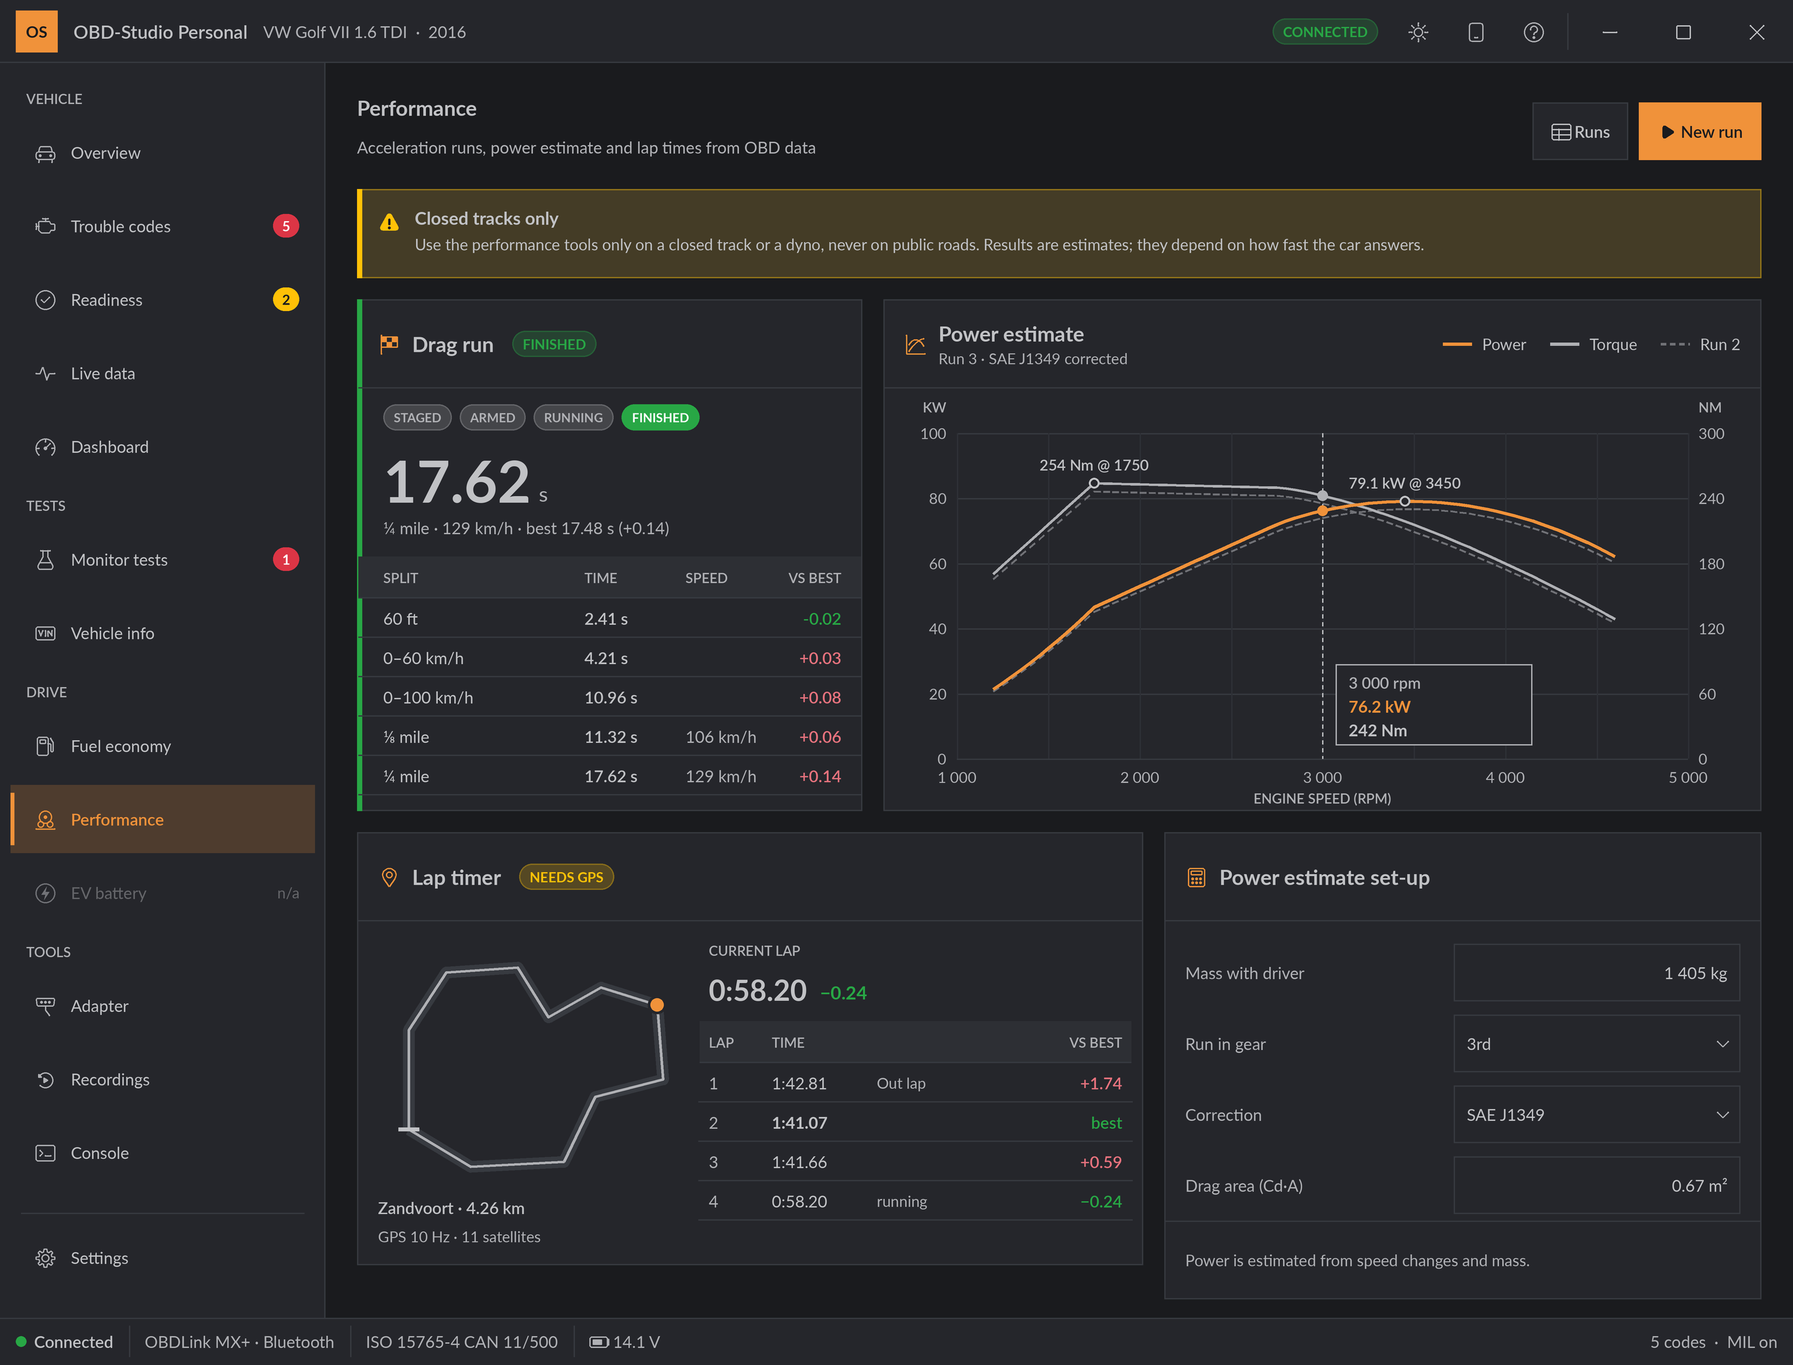
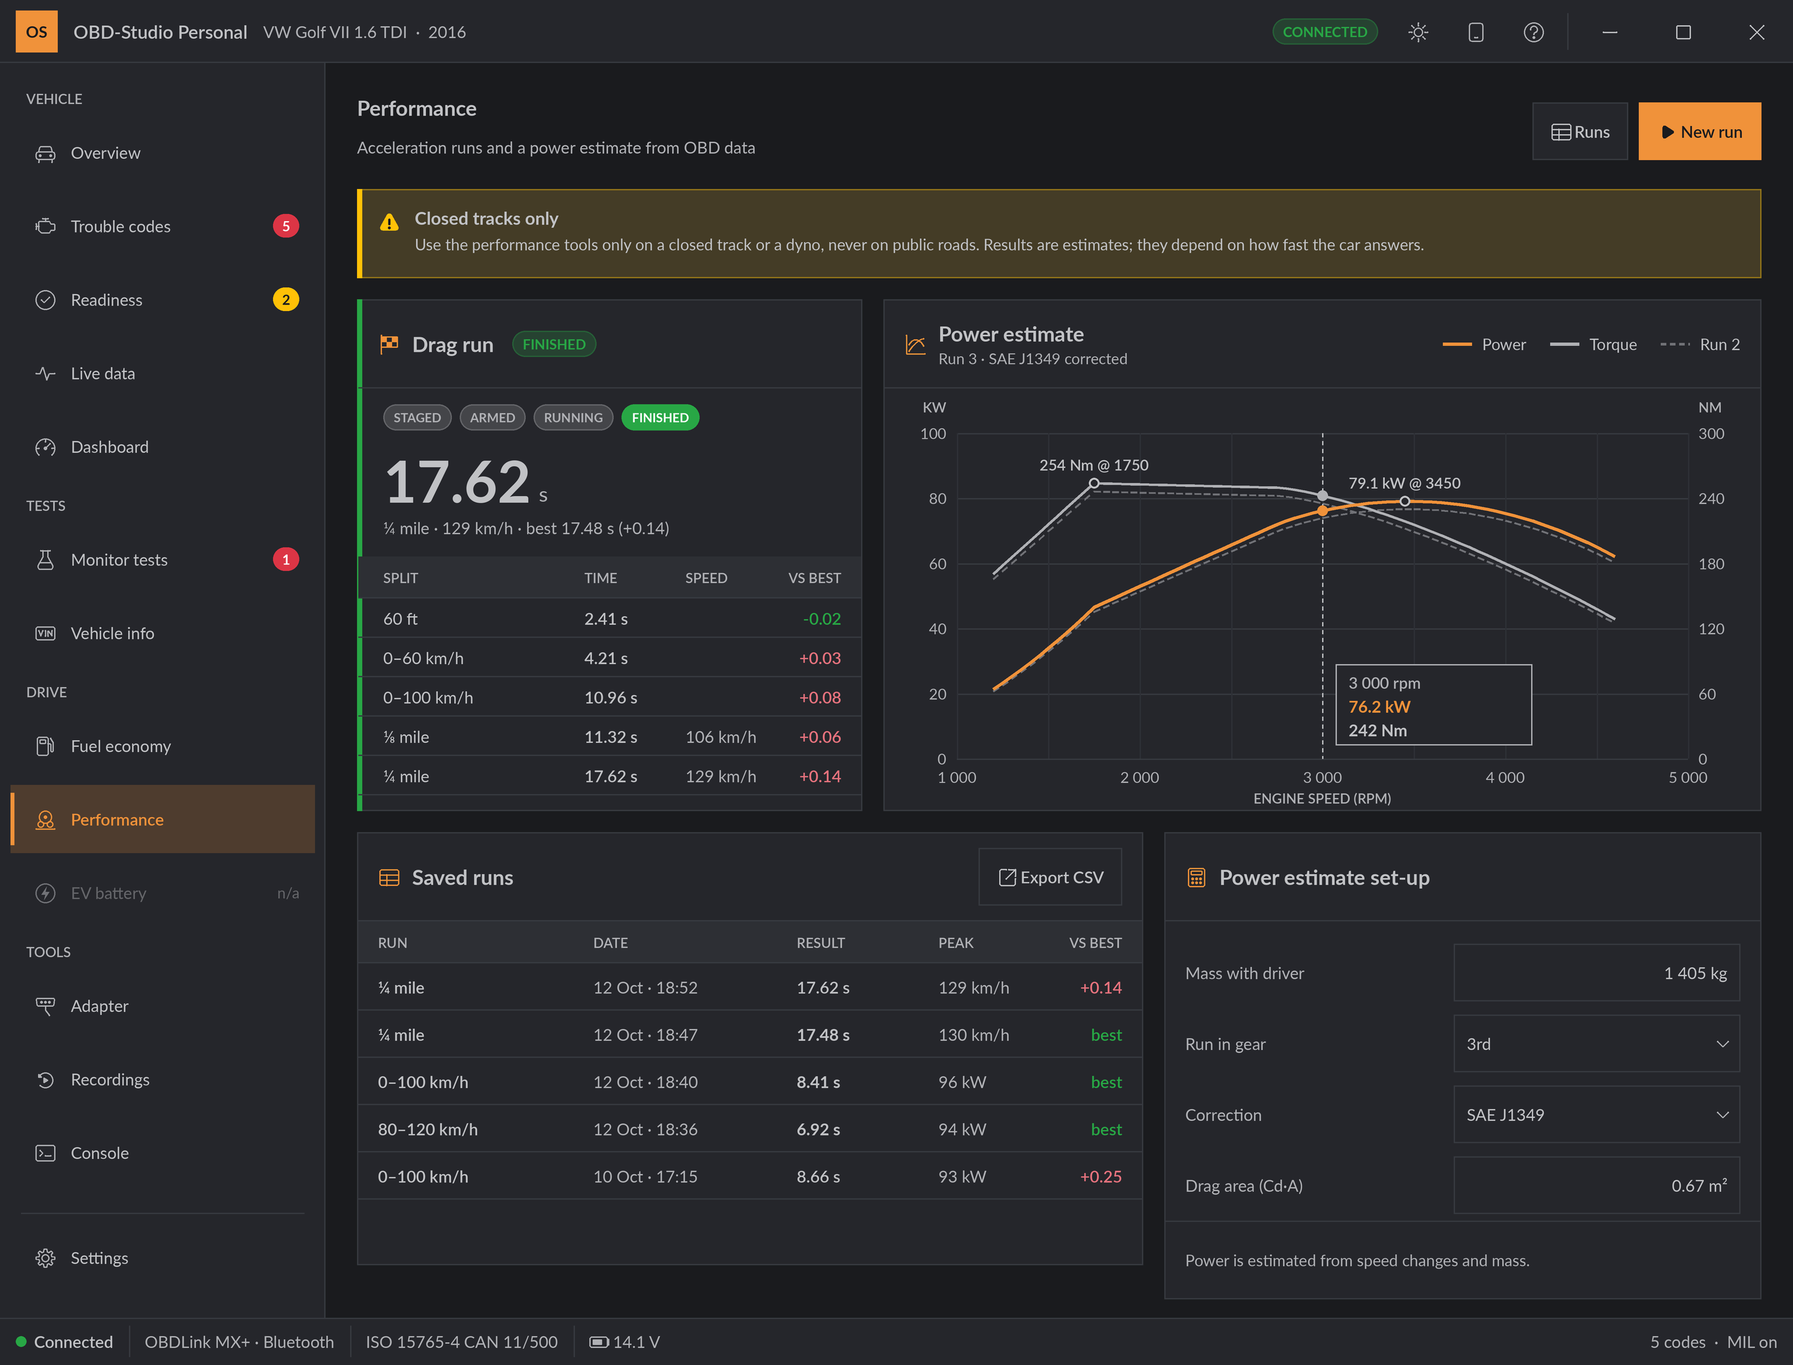
Personal: apply decisions (no lap timer, local-only privacy, decisions resolved)

diff --git a/tools/ui_mockups_personal.py b/tools/ui_mockups_personal.py
@@ -481,8 +481,8 @@ LICENCE_TEXT = [
      'Do not operate the software while driving. Performance tools are for '
      'closed tracks only. Clearing trouble codes does not repair the car.'),
     ('4. Privacy',
-     'OBD-Studio works offline. The online VIN lookup (NHTSA vPIC) and the '
-     'update check are optional; switch them off in Settings › Privacy.'),
+     'OBD-Studio works offline and sends nothing over the internet. Your '
+     'vehicles, recordings and crash logs stay on this PC.'),
     ('5. No warranty',
      'The software is provided as is, without warranty of any kind.'),
 ]
@@ -1726,10 +1726,10 @@ VIN_OFFLINE = [('Manufacturer', 'Volkswagen AG'),
                ('Serial number', '123456'),
                ('Check digit', 'Not used in Europe')]
 
-VIN_ONLINE = [('Make', 'VOLKSWAGEN', 'ok'),
-              ('Model', 'Not listed', 'off'),
-              ('Engine', 'Not listed', 'off'),
-              ('Body class', 'Not listed', 'off')]
+VIN_EQUIPMENT = [('Engine code', 'CXXB · 1.6 TDI 81 kW'),
+                 ('Emission standard', 'Euro 6'),
+                 ('Fuel', 'Diesel'),
+                 ('Body', 'Hatchback, 5 doors')]
 
 
 def ecu_card(c, x, y, w):
@@ -1760,7 +1760,7 @@ def vin_card(c, x, y, w):
     p, dn = c.p, c.dn
     rh = 28
     h = (dn['head'] + 76 + dn['colhead'] + 8 + len(VIN_OFFLINE) * rh + 8 +
-         dn['colhead'] + dn['row'] + len(VIN_ONLINE) * rh + 8 + 44)
+         dn['colhead'] + 8 + len(VIN_EQUIPMENT) * rh + 8 + 44)
     card(c, x, y, w, h)
     ry = card_head(c, x, y, w, 'VIN decoder', 'vin')
     vx = x + 16
@@ -1775,27 +1775,20 @@ def vin_card(c, x, y, w):
         c.caps(vx + max(pw, cw) / 2, vy + 28, cap, anchor='mm')
         vx += max(pw, cw) + 10
     ry += 76
-    ry = caps_line(c, x, ry, w, 'Offline', 'WMI · plants · vPIC model rules')
+    ry = caps_line(c, x, ry, w, 'From the VIN', 'WMI · plants · model rules')
     ry += 8
     for k, v in VIN_OFFLINE:
         kv_row(c, x + 16, ry + rh / 2, w - 32, k, v,
                colr=p.GaugeLabel if k == 'Check digit' else None)
         ry += rh
     ry += 8
-    ry = caps_line(c, x, ry, w, 'Online', 'optional')
-    mid = ry + dn['row'] / 2
-    switch(c, x + 16, mid, True, 'Look up at NHTSA vPIC')
-    chip(c, x + w - 16 - chip_w(c, 'PARTLY LISTED'), mid - 10,
-         'PARTLY LISTED', p.Warning)
-    ry += dn['row']
-    for k, v, st in VIN_ONLINE:
-        kv_row(c, x + 16, ry + rh / 2, w - 32, k, v,
-               colr=p.Subtle if st == 'off' else None,
-               weight='regular' if st == 'off' else 'semibold')
+    ry = caps_line(c, x, ry, w, 'From the car', 'mode 09 · engine data')
+    ry += 8
+    for k, v in VIN_EQUIPMENT:
+        kv_row(c, x + 16, ry + rh / 2, w - 32, k, v)
         ry += rh
-    note(c, x + 16, ry + 22, w - 32, 'Only the VIN is sent. vPIC lists cars '
-         'sold in the USA; most European models are only partly listed.',
-         icon='privacy')
+    note(c, x + 16, ry + 22, w - 32, 'Decoded on this PC from the built-in '
+         'catalogues. The VIN is never sent anywhere.', icon='privacy')
     return y + h
 
 
@@ -1917,70 +1910,46 @@ def draw_fuel(c):
 
 
 # --------------------------------------------------------------------------
-# Performance: acceleration runs, dyno estimate, GPS lap timer
+# Performance: acceleration runs, dyno estimate, saved runs
 # --------------------------------------------------------------------------
 
-LAPS = [('1', '1:42.81', '+1.74', 'Out lap'),
-        ('2', '1:41.07', 'best', ''),
-        ('3', '1:41.66', '+0.59', ''),
-        ('4', '0:58.20', '−0.24', 'running')]
+SAVED_RUNS = [('¼ mile', '12 Oct · 18:52', '17.62 s', '129 km/h', '+0.14'),
+              ('¼ mile', '12 Oct · 18:47', '17.48 s', '130 km/h', 'best'),
+              ('0–100 km/h', '12 Oct · 18:40', '8.41 s', '96 kW', 'best'),
+              ('80–120 km/h', '12 Oct · 18:36', '6.92 s', '94 kW', 'best'),
+              ('0–100 km/h', '10 Oct · 17:15', '8.66 s', '93 kW', '+0.25')]
 
 
-def track(c, x, y, w, h):
-    """Simple circuit outline with the car position."""
-    p = c.p
-    pts = [(0.10, 0.75), (0.10, 0.35), (0.22, 0.12), (0.45, 0.10),
-           (0.55, 0.30), (0.72, 0.18), (0.90, 0.25), (0.92, 0.55),
-           (0.70, 0.62), (0.60, 0.88), (0.30, 0.90), (0.10, 0.75)]
-    xy = [(x + a * w, y + b * h) for a, b in pts]
-    c.line(xy, p.NeutralLight, 9)
-    c.line(xy, p.NeutralDark, 2)
-    sx, sy = xy[0]
-    c.rect(sx - 8, sy - 1.5, 16, 3, fill=p.ForegroundText)
-    cx, cy = xy[6]
-    c.ellipse(cx - 7, cy - 7, 14, 14, fill=p.Accent, outline=p.GaugeFace,
-              width=2)
-
-
-def gps_lap_card(c, x, y, w, h):
+def saved_runs_card(c, x, y, w, h):
+    """Saved acceleration runs (TOBDDragRun results) with CSV export."""
     p, dn = c.p, c.dn
     card(c, x, y, w, h)
-    ry = card_head(c, x, y, w, 'Lap timer', 'location',
-                   chips=[('NEEDS GPS', p.Warning)])
-    tw = round(w * 0.42)
-    track(c, x + 16, ry + 16, tw - 16, h - (ry - y) - 72)
-    c.text(x + 16, y + h - 44, 'Zandvoort · 4.26 km', 12.5,
-           p.ForegroundText, 'semibold')
-    c.text(x + 16, y + h - 22, 'GPS 10 Hz · 11 satellites', 11.5,
-           p.GaugeLabel)
-    lx = x + tw + 16
-    lw = w - tw - 32
-    c.caps(lx, ry + 22, 'Current lap')
-    vw = c.text(lx, ry + 52, '0:58.20', 22, p.ForegroundText, 'bold')
-    c.text(lx + vw + 10, ry + 54, '−0.24', 14, p.Success, 'bold')
-    ty = colhead(c, lx - 8, ry + 76, lw + 16, [(lx, 'Lap'),
-                                               (lx + 48, 'Time'),
-                                               (lx + lw, 'vs best', 'rm')])
-    row = min(30, dn['row'] - 12)
-    for n, t, d, sub in LAPS:
+    ry = card_head(c, x, y, w, 'Saved runs', 'table',
+                   buttons=[('Export CSV', 'secondary', 'export')])
+    cols = [x + 16, x + round(w * 0.30), x + round(w * 0.56),
+            x + round(w * 0.74), x + w - 16]
+    ty = colhead(c, x, ry, w, [(cols[0], 'Run'), (cols[1], 'Date'),
+                               (cols[2], 'Result'), (cols[3], 'Peak'),
+                               (cols[4], 'vs best', 'rm')])
+    row = min(36, dn['row'] - 6)
+    for name, when, res, peak, d in SAVED_RUNS:
         mid = ty + row / 2
-        c.text(lx, mid, n, 12.5, p.GaugeLabel)
-        c.text(lx + 48, mid, t, 12.5, p.ForegroundText,
-               'bold' if d == 'best' else 'regular')
-        if sub:
-            c.text(lx + 128, mid, sub, 11.5, p.GaugeLabel)
-        colr = p.Success if d in ('best',) or d.startswith('−') else \
-            danger_ink(p)
-        c.text(lx + lw, mid, d, 12.5, colr, 'semibold', anchor='rm')
+        c.text(cols[0], mid, name, 12.5, p.ForegroundText, 'semibold')
+        c.text(cols[1], mid, when, 12.5, p.GaugeLabel)
+        c.text(cols[2], mid, res, 12.5, p.ForegroundText,
+               'bold' if d == 'best' else 'semibold')
+        c.text(cols[3], mid, peak, 12.5, p.GaugeLabel)
+        colr = p.Success if d == 'best' else danger_ink(p)
+        c.text(cols[4], mid, d, 12.5, colr, 'semibold', anchor='rm')
         ty += row
-        c.hline(lx - 8, ty - 1, lw + 16, p.NeutralLight)
+        c.hline(x + 1, ty - 1, w - 2, p.NeutralLight)
     return y + h
 
 
 def performance_page(c, x, y, w):
     dn = c.dn
-    y, _ = page_head(c, x, y, w, 'Performance', 'Acceleration runs, power '
-                     'estimate and lap times from OBD data',
+    y, _ = page_head(c, x, y, w, 'Performance', 'Acceleration runs and a '
+                     'power estimate from OBD data',
                      [('Runs', 'secondary', 'table'),
                       ('New run', 'primary', 'play')])
     y = wbanner(c, x, y, w, 'warning', 'Closed tracks only',
@@ -1994,7 +1963,7 @@ def performance_page(c, x, y, w):
     y += h + 16
     gw = round(w * 0.56)
     gh = 300 if c.density == 'desktop' else 330
-    gps_lap_card(c, x, y, gw, gh)
+    saved_runs_card(c, x, y, gw, gh)
     fx = x + gw + 16
     fw = w - gw - 16
     P.form_card(c, fx, y, fw, 'Power estimate set-up', 'calculator', [
@@ -2398,17 +2367,17 @@ def settings_page(c, x, y, w):
         ('Next inspection', '14 Mar 2027', 'edit')],
         note='Readiness is checked against these rules.')
     ry2 += 16
-    sw = [('Look up VINs online (NHTSA vPIC)', True),
-          ('Check for updates', True),
-          ('Send anonymous crash reports', False)]
+    sw = [('Keep crash logs on this PC', True),
+          ('Keep a connection log', False),
+          ('Remember recent vehicles', True)]
     ph = dn['head'] + dn['row'] * len(sw) + dn['foot']
     card(c, rx, ry2, cw, ph)
     yy = card_head(c, rx, ry2, cw, 'Privacy', 'privacy')
     for label, on in sw:
         switch(c, rx + 16, yy + dn['row'] / 2, on, label)
         yy += dn['row']
-    footer(c, rx, ry2, cw, ph, 'No account, no tracking. Your data stays '
-           'on this PC.')
+    footer(c, rx, ry2, cw, ph, 'Works offline. No account, no tracking; '
+           'nothing leaves this PC.')
     ry2 += ph + 16
     kv = [('Version', '1.0.0'),
           ('Licence', 'Free for personal use · v1.0'),
@@ -2422,7 +2391,7 @@ def settings_page(c, x, y, w):
         yy += 28
     bx = rx + 16
     by = ry2 + ah2 - 16 - dn['button']
-    for t in ('View licence', 'Third-party notices', 'Check for updates'):
+    for t in ('View licence', 'Third-party notices', 'Get updates'):
         bx += button(c, bx, by, t, 'secondary') + 8
     return max(ly, ry2 + ah2)
 

diff --git a/applications/obd-studio-personal/README.md b/applications/obd-studio-personal/README.md
@@ -32,7 +32,7 @@ next (see [Roadmap](#roadmap)). There is no application code yet.
 - [Europe](#europe)
 - [Licence acceptance](#licence-acceptance)
 - [Roadmap](#roadmap)
-- [Open decisions](#open-decisions)
+- [Decisions](#decisions)
 
 ## Feature parity with OBD Auto Doctor
 
@@ -97,12 +97,11 @@ Features that OBD Auto Doctor does not offer, or offers in a simpler form:
 | Inspection check: "would this car pass the APK, keuring, HU/AU, CT, MOT or NCT readiness check?" | Readiness, Overview | Inspection-rules catalogue (new) |
 | Drive-cycle advisor: how to drive to complete the unfinished monitors | Readiness | `TOBDDriveCycleAdvisor`, `drive-cycle-generic.json` |
 | Offline VIN decoder: maker, plant, model year and vPIC model rules without internet | Vehicle info | `TOBDVINCatalog`, `TOBDVINInspector`, `catalogs/vin` |
-| Optional online VIN lookup (NHTSA vPIC) | Vehicle info | Application work (HTTPS request) |
 | Dashboard editor: choose gauges, values and layout | Dashboard (edit) | `TOBDDashboard`, `TOBDPidPicker` |
 | Recording and replay of a session, including the raw adapter log | Recordings | `TOBDRecorder`, `TOBDReplayer`, `TOBDReplayBar`, `TOBDLogViewer` |
 | Trip fuel cost and CO₂ | Fuel economy | `TOBDFuelEconomyMeter`, `TOBDEmissionsEstimator` |
 | Performance: drag runs with splits (for example ¼ mile), estimated power curve | Performance | `TOBDDragRun`, `TOBDDynoCalculator`, `TOBDPowerCurve` |
-| Lap timer | Performance | `TOBDLapTimer` (needs GPS, see [Open decisions](#open-decisions)) |
+| Saved runs with CSV export | Performance | `TOBDDragRun`, CSV logger (new) |
 | UDS failure-type bytes on J1979-2 cars (for example P0101-1C) | Trouble codes (UDS view) | `TOBDWWHOBD` |
 | EV battery health: state of health, cell voltages, temperatures | EV battery | `TOBDEVBattery`, `TOBDCellMatrix`, `catalogs/ev-battery` |
 | Light and dark themes, desktop and tablet density | All | `TOBDTheme` |
@@ -112,6 +111,10 @@ Features that OBD Auto Doctor does not offer, or offers in a simpler form:
 
 - **Reports.** Later, through the ERDesigns cloud reporting service.
 - **G-meter.** Dropped for now; `TOBDGMeter` exists, so it can come back.
+- **Lap timer.** Needs a GPS source; left out for now.
+- **Online functions.** Personal works offline: no online VIN lookup, no
+  automatic update check and no crash reports sent anywhere.
+  **Get updates** in Settings opens the download page in the browser.
 - **Professional features.** UDS and KWP coding, flashing, key adaptation,
   radio codes, actuator tests other than Mode 08, J1939 trucks and
   workshop use belong to OBD-Studio Professional.
@@ -136,11 +139,11 @@ each in light and dark, desktop and tablet.
 | Monitor tests | `personal-tests` | Mode 06 results, Mode 05 and Mode 08 tabs, in-use performance |
 | Vehicle info | `personal-vehicle-info` | VIN decoder, ECU list, calibration IDs and CVNs |
 | Fuel economy | `personal-fuel` | Trip consumption, cost and CO₂ |
-| Performance | `personal-performance` | Acceleration runs, power curve and lap timer |
+| Performance | `personal-performance` | Acceleration runs, power curve and saved runs |
 | EV battery | `personal-ev-battery` | State of health and cell voltages |
 | Recordings | `personal-recordings` | Saved sessions, replay and CSV export |
 | Console | `personal-console` | Adapter commands and responses |
-| Settings | `personal-settings` | Language, theme, density, units, inspection country, privacy, licence |
+| Settings | `personal-settings` | Language, theme, density, units, inspection country, local logs, licence |
 
 Render them with `cd tools && python3 ui_mockups.py --only personal-NAME`.
 
@@ -177,9 +180,9 @@ Part of the catalogue data comes from open sources with their own licences
 | J1939-Framework, decoda | MIT | J1939 (not used by Personal) |
 | vininfo | BSD-3-Clause | WMIs |
 
-The application itself is proprietary. Shipping GPL and CC BY-SA data with
-it needs a decision ([Open decisions](#open-decisions)), ideally with legal
-advice. Whatever the decision, the application will:
+The application itself is proprietary. All of this data is included for
+now; how the GPL and CC BY-SA data ships is settled before the release
+(see [Decisions](#decisions)). In any case the application will:
 
 - ship the catalogues as separate data files, not compiled into the
   executable;
@@ -263,14 +266,16 @@ J1979-2 and EV.
 
 **Step 5 – Release.**
 
-## Open decisions
+## Decisions
 
-| # | Question | Assumed for now |
+Agreed on 12 October 2026:
+
+| # | Question | Decision |
 |---|---|---|
-| 1 | How to handle the GPL-2.0+ and CC BY-SA 4.0 catalogue data: ship it as separate files with notices, replace it with our own texts, or ask the authors for permission | Separate files with notices; get legal advice |
-| 2 | How many manufacturer code texts are needed before the release | Main European brands first |
-| 3 | GPS for the lap timer: GPS receiver (NMEA over COM), Windows location, or leave the lap timer out | Mocked with a "Needs GPS" chip |
-| 4 | Installer technology | Inno Setup |
-| 5 | Ship the tablet density in the first release | Mocked; decide after building the desktop layout |
-| 6 | Online VIN lookup: NHTSA vPIC is US-centred; keep it as an option next to the offline decoder | Optional, with a switch under Settings › Privacy |
-| 7 | Crash reports and update checks: which service receives them, and the privacy notice that describes them | Crash reports off by default |
+| 1 | GPL-2.0+ and CC BY-SA 4.0 catalogue data | Include all of it now; how it ships is settled before the release |
+| 2 | How many manufacturer code texts | As many as possible, from open sources with the source on every entry |
+| 3 | Lap timer and GPS | Left out for now |
+| 4 | Installer | Inno Setup |
+| 5 | Tablet density | Both densities in the first release |
+| 6 | Online VIN lookup | Local only: the offline decoder, no online lookup |
+| 7 | Crash reports and update checks | Local only: crash logs stay on the PC, no automatic update check; **Get updates** opens the download page in the browser |

diff --git a/docs/mockups/README.md b/docs/mockups/README.md
@@ -673,7 +673,8 @@ a `-tablet` variant.
 | Sample cars | A VW Golf VII 1.6 TDI (2016, with EGR and DPF codes) and, on the EV page, a Hyundai Kona Electric. Values agree between pages. |
 | Unsupported functions | Shown greyed out with the reason, not hidden (for example Mode 05 on a CAN car). |
 | Inspection rules | Labelled "Example rules" until each country's rules are checked against the official source. |
-| Lap timer | Shown with a *Needs GPS* chip; the GPS source is an open decision. |
+| Lap timer | Left out: the performance page shows drag runs, the power estimate and saved runs. |
+| Privacy | Local only: no online VIN lookup, no automatic update check, crash logs stay on the PC. |
 | Licence | Accepted in the installer and again in the first-start wizard. |
 
 ### Screens
@@ -691,13 +692,13 @@ a `-tablet` variant.
 | `personal-dashboard` | Dial and bar gauges with peaks, and value tiles. |
 | `personal-dashboard-edit` | Dashboard editor: widget list, drop target and the settings of the selected widget. |
 | `personal-tests` | Mode 06 results by monitor (catalogue MIDs) with limits, Mode 05 and Mode 08 tabs (greyed when the car does not support them) and in-use performance tracking. |
-| `personal-vehicle-info` | VIN decoded offline (WMI, plant, vPIC model rules) with an optional online lookup; control units with calibration IDs, CVNs and the type-approval number. |
+| `personal-vehicle-info` | VIN decoded on the PC (WMI, plant, model rules) plus engine data the car reports; control units with calibration IDs, CVNs and the type-approval number. |
 | `personal-fuel` | Live and trip consumption, cost and CO₂, how it is measured, and a trip list. |
-| `personal-performance` | Drag run with splits, power estimate and a GPS lap timer (flagged: needs GPS). |
+| `personal-performance` | Drag run with splits, power estimate, saved runs with CSV export and the power-estimate set-up. |
 | `personal-ev-battery` | State of health, pack values and cell voltages per module (Hyundai Kona Electric, 98 cells). |
 | `personal-recordings` | Saved sessions with replay, the adapter log and CSV export. |
 | `personal-console` | Adapter console with quick commands and the adapter log settings. |
-| `personal-settings` | Language, appearance, units, inspection country, privacy switches, and the licence and third-party notices. |
+| `personal-settings` | Language, appearance, units, inspection country, local privacy options (crash and connection logs), and the licence and third-party notices. |
 
 | Light | Dark |
 |---|---|

diff --git a/applications/obd-studio-personal/EULA.md b/applications/obd-studio-personal/EULA.md
@@ -105,18 +105,13 @@ doubt, have the vehicle checked by a qualified professional.
 
 ## 9. Privacy
 
-The Software works offline and stores your vehicles, recordings and
-settings on your computer. It does not need an account and does not show
-adverts. The online functions are optional and can be switched off under
-**Settings › Privacy**:
+The Software works offline. It stores your vehicles, recordings,
+settings and crash logs on your computer and does not send them, or any
+other data, to ERDesigns or anyone else. It does not need an account and
+does not show adverts. The VIN is decoded on your computer.
 
-- **Online VIN lookup** sends the VIN to the NHTSA vPIC service.
-- **Check for updates** sends the Software version to ERDesigns.
-- **Anonymous crash reports** are sent to ERDesigns only if you switch
-  them on.
-
-The privacy notice that comes with the Software describes these functions
-in full.
+**Get updates** under **Settings** only opens the ERDesigns download page
+in your web browser; the Software itself does not check for updates.
 
 ## 10. Updates and changes to this Licence
 
